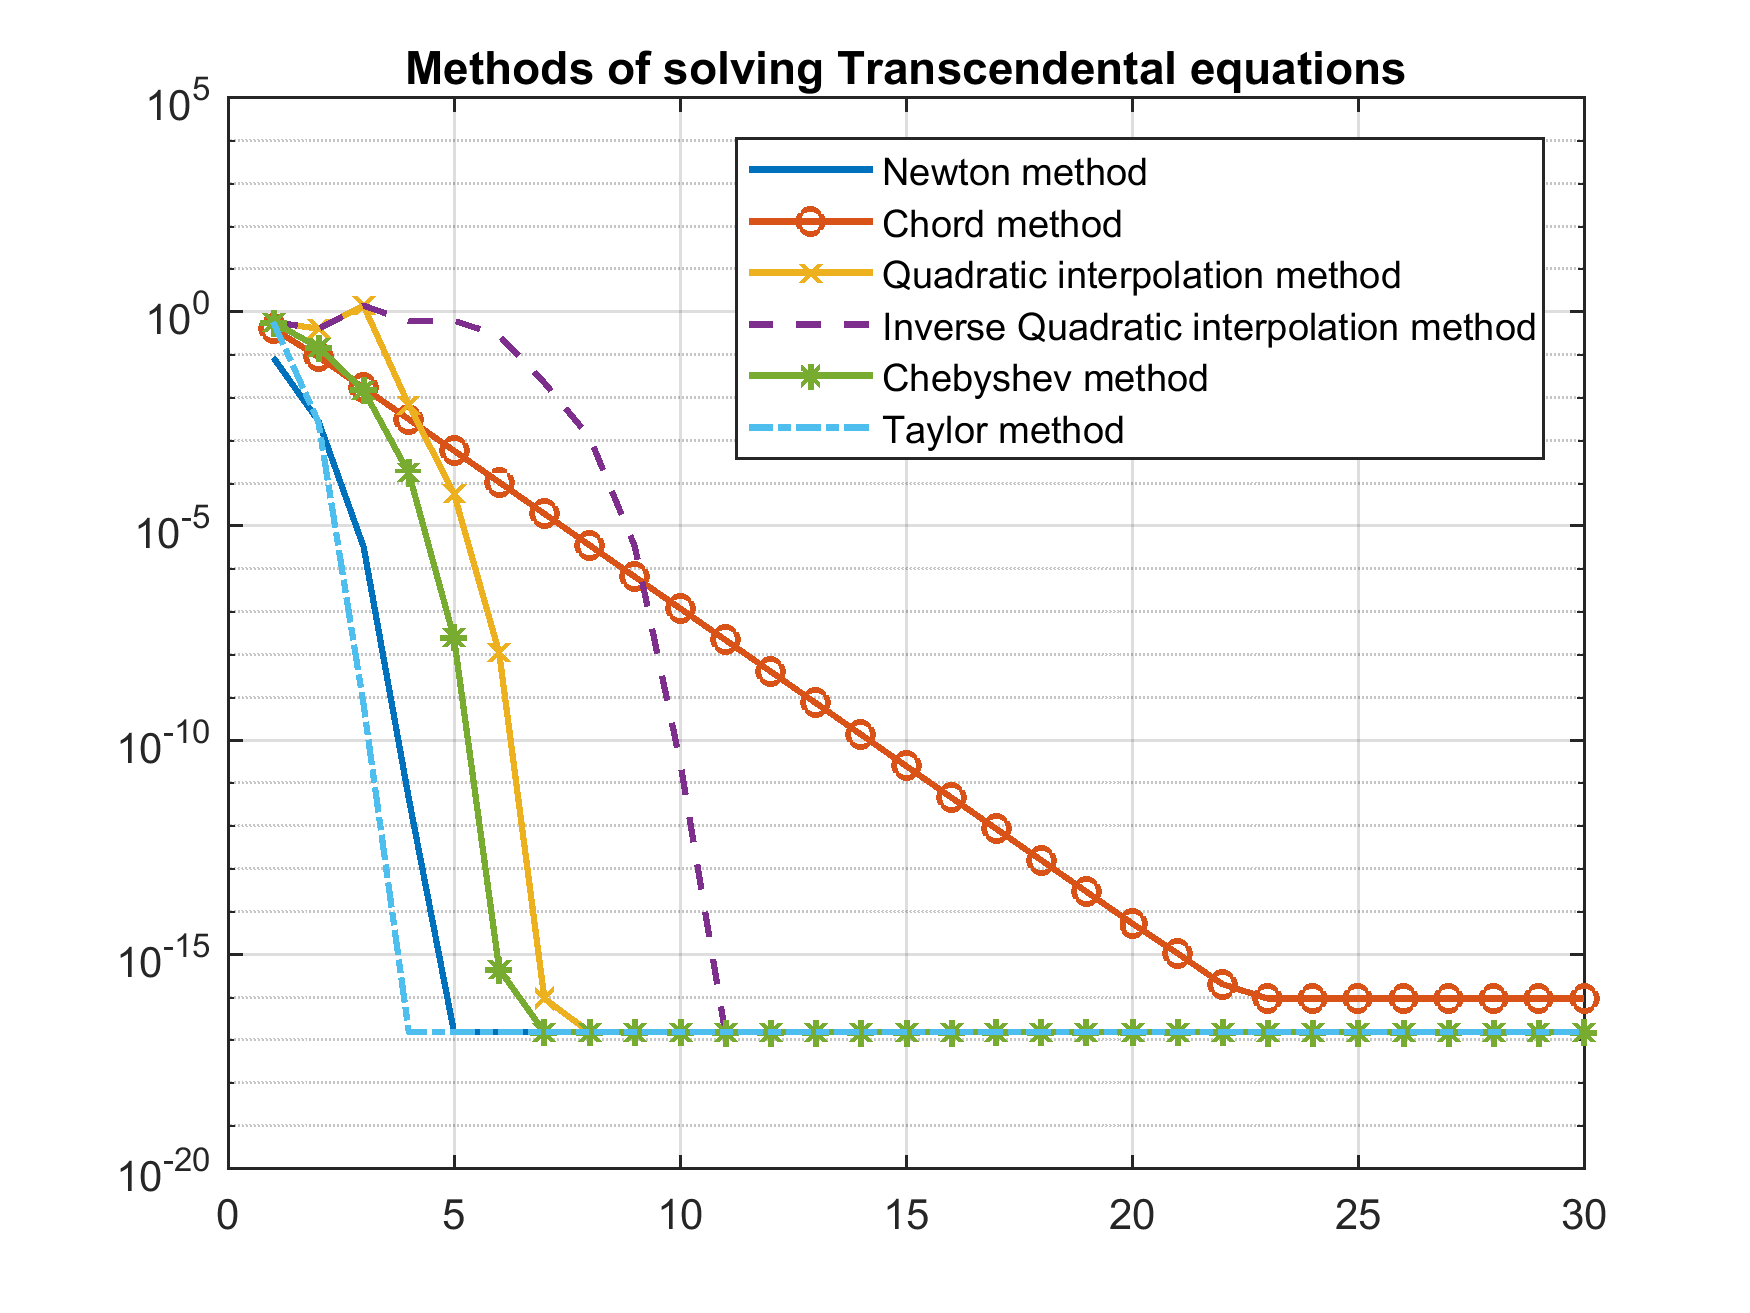
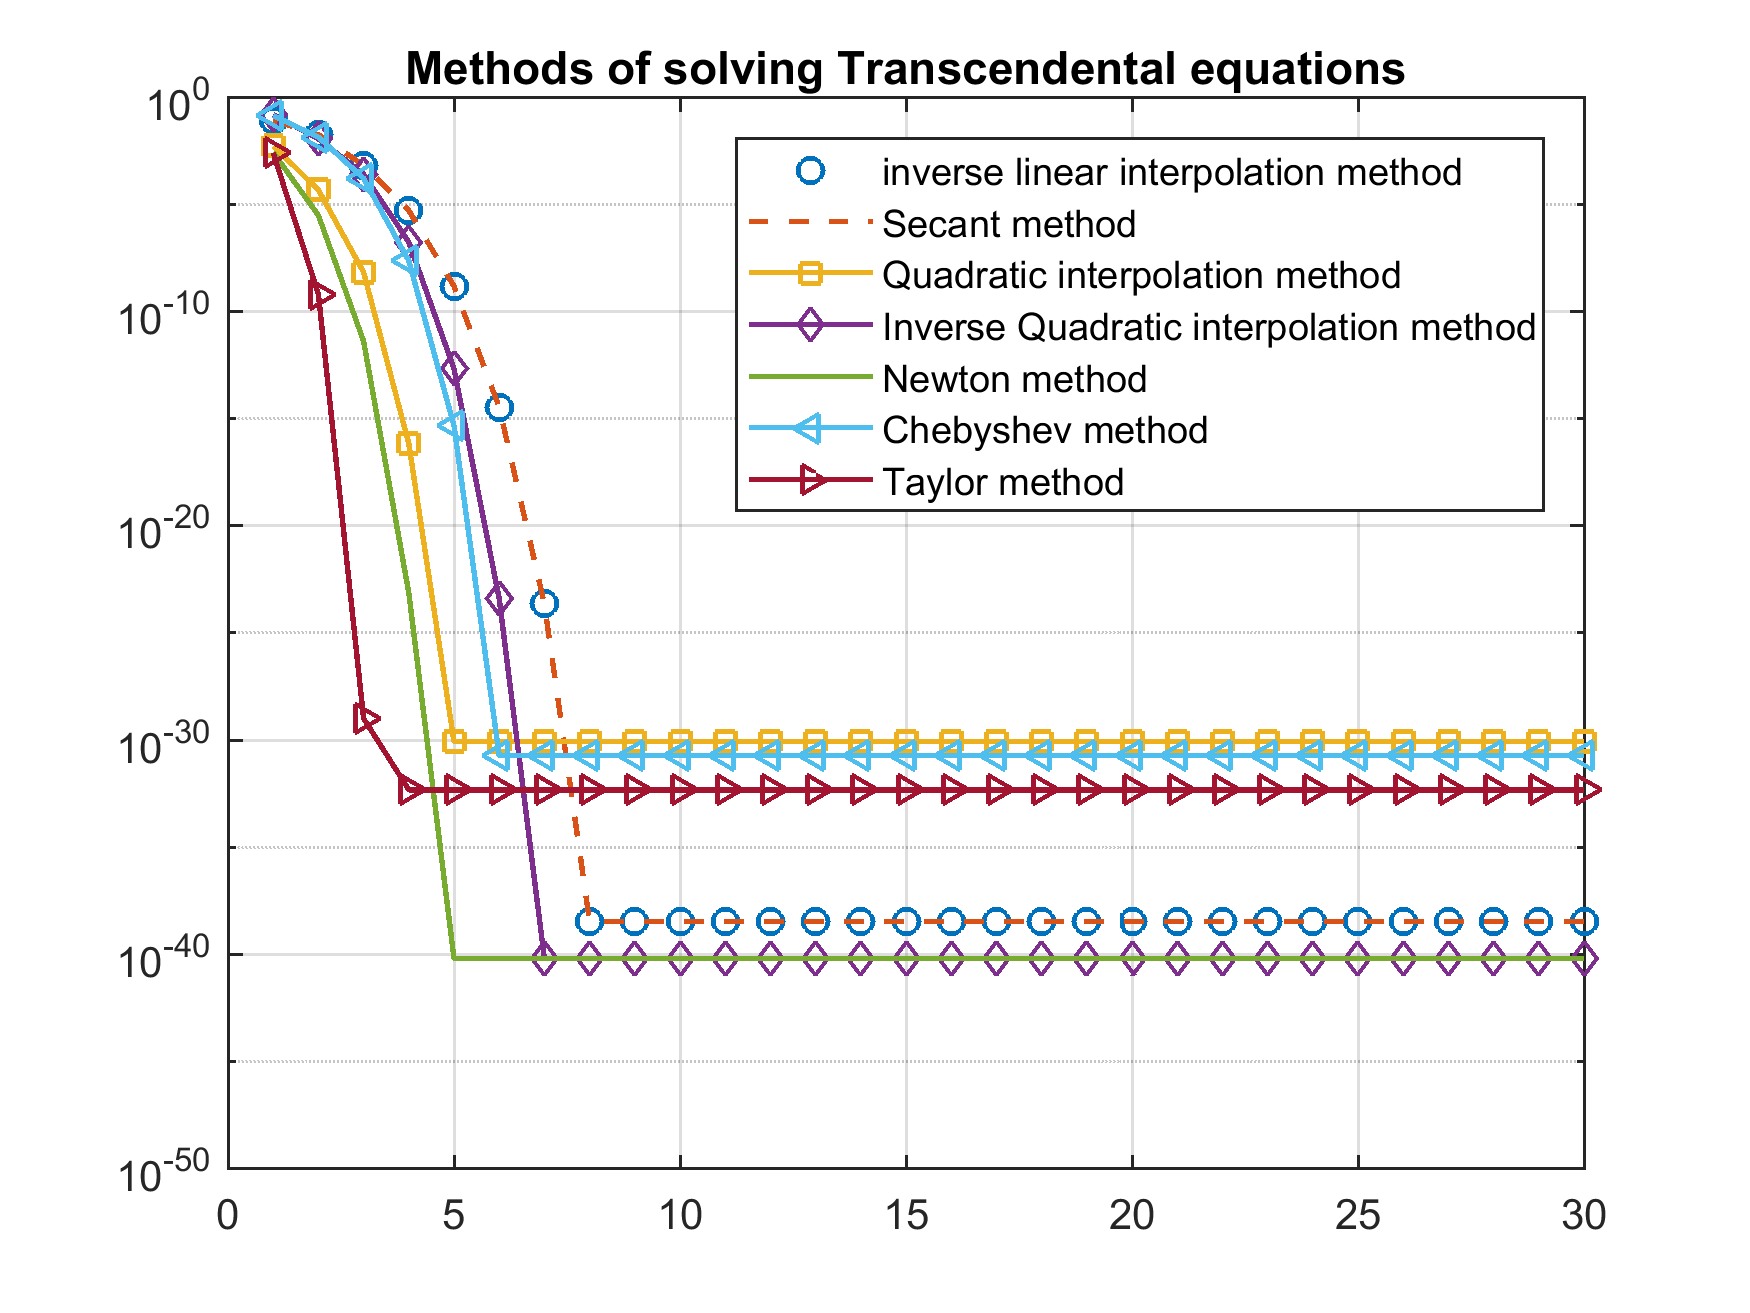
vpa for more accuracy in approximation

diff --git a/Fifth_semester/Numerical_Analysis/TranscendentalEquations/CompareMethods.m b/Fifth_semester/Numerical_Analysis/TranscendentalEquations/CompareMethods.m
@@ -8,10 +8,11 @@ function [ ] = CompareMethods( func, n, eps )
     root = solve(func);
     x1 = 0;
     x2 = 1;
-    x3 = 2;
+    x3 = 1.5;
     xsNewton = NewtonMethod(func, x1, eps);
-    xsChord = ChordMethod(func, x1, x2, eps);
+    xsSecant = SecantMethod(func, x1, x2, eps);
     xsQuadratic = QuadraticInterpolation(func, x1, x2, x3, eps);
+    xsInvLinear = InverseLinearInterpolation(func, x1, x2, eps);
     xsInvQuadratic = InverseQuadraticInterpolation(func, x1, x2, x3, eps);
     xsChebyshev = ChebyshevMethod(func, x1, eps);
     xsTaylor = TaylorMethod(func, x1, eps);
@@ -19,31 +20,35 @@ function [ ] = CompareMethods( func, n, eps )
     xs = 1 : 1 : n;
     root = Extend(root, n);
     xsNewton = abs(root - Extend(xsNewton, n));
-    xsChord = abs(root - Extend(xsChord, n));
+    xsSecant = abs(root - Extend(xsSecant, n));
     xsQuadratic = abs(root - Extend(xsQuadratic, n));
     xsInvQuadratic = abs(root - Extend(xsInvQuadratic, n));
+    xsInvLinear = abs(root - Extend(xsInvLinear, n));
     xsChebyshev = abs(root - Extend(xsChebyshev, n));
     xsTaylor = abs(root - Extend(xsTaylor, n));
 
-    lineWidth = 1.5;
+    lineWidth = 1.3;
     f = figure;
+    semilogy(xs, xsInvLinear, 'o',...
+            'LineWidth', lineWidth,...
+            'DisplayName', 'inverse linear interpolation method');
+    hold on;
+    semilogy(xs, xsSecant, '--',...
+            'LineWidth', lineWidth,...
+            'DisplayName', 'Secant method');
+    semilogy(xs, xsQuadratic, '-s',...
+            'LineWidth', lineWidth,...
+            'DisplayName', 'Quadratic interpolation method');
+    semilogy(xs, xsInvQuadratic, '-d',...
+            'LineWidth', lineWidth,...
+            'DisplayName', 'Inverse Quadratic interpolation method');
     semilogy(xs, xsNewton,...
             'LineWidth', lineWidth,...
             'DisplayName', 'Newton method');
-    hold on;
-    semilogy(xs, xsChord, '-o',...
-            'LineWidth', lineWidth,...
-            'DisplayName', 'Chord method');
-    semilogy(xs, xsQuadratic, '-x',...
-            'LineWidth', lineWidth,...
-            'DisplayName', 'Quadratic interpolation method');
-    semilogy(xs, xsInvQuadratic, '--',...
-            'LineWidth', lineWidth,...
-            'DisplayName', 'Inverse Quadratic interpolation method');
-    semilogy(xs, xsChebyshev, '-*',...
+    semilogy(xs, xsChebyshev, '-<',...
             'LineWidth', lineWidth,...
             'DisplayName', 'Chebyshev method');
-    semilogy(xs, xsTaylor,'-.',...
+    semilogy(xs, xsTaylor,'->',...
             'LineWidth', lineWidth,...
             'DisplayName', 'Taylor method');
     hold off;

diff --git a/Fifth_semester/Numerical_Analysis/TranscendentalEquations/InverseQuadraticInterpolation.m b/Fifth_semester/Numerical_Analysis/TranscendentalEquations/InverseQuadraticInterpolation.m
@@ -6,20 +6,19 @@
 %   eps - the upper bound on the relative error, which affects the quality
 %       of the approximation
 function [ xs ] = InverseQuadraticInterpolation( func, x1, x2, x3, eps )
-    xs(1) = x1;
-    xs(2) = x2;
-    xs(3) = x3;
+    xs = sym([x3 x2 x1]);
+    firstNo = length(xs) + 1;
     k = 3;
     f = symfun(sym(func), sym('x'));
     condition = true;
 
     while condition
-        ys = eval(f(xs(k - 2 : k)));
+        ys = vpa(f(xs(k - 2 : k)));
         Q2 = LagrangePolynomial(ys, xs(k - 2 : k));
         funcQ = symfun(sym(Q2), sym('x'));
         xs(k + 1) = funcQ(0);
         k = k + 1;
         condition = (abs(xs(k) - xs(k - 1)) > eps);
     end
+    xs = xs(firstNo : length(xs));
 end
-

diff --git a/Fifth_semester/Numerical_Analysis/TranscendentalEquations/QuadraticInterpolation.m b/Fifth_semester/Numerical_Analysis/TranscendentalEquations/QuadraticInterpolation.m
@@ -6,20 +6,19 @@
 %   eps - the upper bound on the relative error, which affects the quality
 %       of the approximation
 function [ xs ] = QuadraticInterpolation( func, x1, x2, x3, eps )
-    xs(1) = x1;
-    xs(2) = x2;
-    xs(3) = x3;
+    xs = sym([x1 x2 x3]);
+    firstNo = length(xs) + 1;
     k = 3;
     f = symfun(sym(func), sym('x'));
     condition = true;
 
     while condition
-        ys = eval(f(xs(k - 2 : k)));
+        ys = vpa(f(xs(k - 2 : k)));
         P2 = LagrangePolynomial(xs(k - 2 : k), ys);
         roots = solve(P2);
         xs(k + 1) = min(abs(roots));
         k = k + 1;
         condition = (abs(xs(k) - xs(k - 1)) > eps);
     end
+    xs = xs(firstNo : length(xs));
 end
-

diff --git a/Fifth_semester/Numerical_Analysis/TranscendentalEquations/TaylorMethod.m b/Fifth_semester/Numerical_Analysis/TranscendentalEquations/TaylorMethod.m
@@ -11,13 +11,15 @@ function [ xs ] = TaylorMethod( func, x0, eps )
     d2f = symfun(diff(df, sym('x')), sym('x'));
     condition = true;
     k = 1;
-    xs(k) = x0;
+    xs(k) = sym(x0);
+    firstNo = length(xs) + 1;
     while condition
         T2 = f(xs(k)) + df(xs(k)) * (sym('x') - xs(k)) + ...
              + d2f(xs(k)) * (sym('x') - xs(k)) ^ 2 / 2;
         roots = solve(T2);
         k = k + 1;
-        xs(k) = min(abs(roots));
+        xs(k) = vpa(min(abs(roots)));
         condition = (abs(xs(k) - xs(k - 1)) > eps);
     end
+    xs = xs(firstNo : length(xs));
 end

diff --git a/Fifth_semester/Numerical_Analysis/TranscendentalEquations/ChebyshevMethod.m b/Fifth_semester/Numerical_Analysis/TranscendentalEquations/ChebyshevMethod.m
@@ -16,13 +16,15 @@ function [ xs ] = ChebyshevMethod( func, x0, eps )
     
     condition = true;
     k = 1;
-    xs(k) = x0;
+    xs(k) = sym(x0);
+    firstNo = length(xs) + 1;
     while condition
         k = k + 1;
         dy = sym('y') - f(xs(k - 1));
         F = xs(k - 1) + dy * dF(xs(k - 1)) - dy ^ 2 * d2F(xs(k - 1)) / 2;
         F = symfun(F, sym('y'));
-        xs(k) = eval(F(0));
+        xs(k) = vpa(F(0));
         condition = (abs(xs(k) - xs(k - 1)) > eps);
     end
+    xs = xs(firstNo : length(xs));
 end

diff --git a/Fifth_semester/Numerical_Analysis/TranscendentalEquations/NewtonMethod.m b/Fifth_semester/Numerical_Analysis/TranscendentalEquations/NewtonMethod.m
@@ -10,12 +10,14 @@ function [ xs ] = NewtonMethod( func, x0, eps )
     df = symfun(diff(func, sym('x')), sym('x'));
     
     k = 1;
-    xs(k) = eval(x0 - f(x0) / df(x0));
+    xs(k) = vpa(x0 - f(x0) / df(x0));
+    firstNo = length(xs) + 1;
     condition = true;
     while condition
         k = k + 1;
         x = xs(k - 1);
-        xs(k) = eval(x - f(x) / df(x));
+        xs(k) = vpa(x - f(x) / df(x));
         condition = (abs(xs(k) - xs(k - 1)) > eps);
     end
+    xs = xs(firstNo : length(xs));
 end

diff --git a/Fifth_semester/Numerical_Analysis/TranscendentalEquations/Draw.m b/Fifth_semester/Numerical_Analysis/TranscendentalEquations/Draw.m
@@ -2,7 +2,7 @@
 function [ ] = Draw( func )
     f = symfun(sym(func), sym('x'));
     a = 0;
-    b = 10;
+    b = 4;
     xs = a : 0.05 : b;
     hold on;
     grid on;
